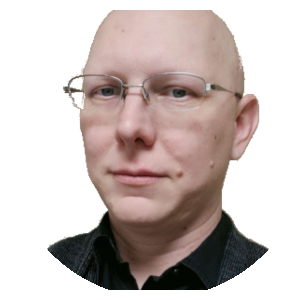
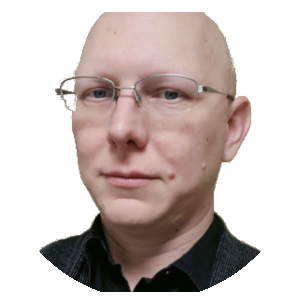
Stacking Profile Image

diff --git a/src/App.jsx b/src/App.jsx
@@ -18,7 +18,11 @@ function App() {
 function Home() {
     return (
         <div>
-            This is my main page.
+            <div className='image-holder'>
+                <img src='./Perlin-Background-300-300.png' className='profile-image' />
+                <img src='./Portrait-300-300.png' className='profile-image' />
+                <img src='./Gold-Ring-300-300.png' className='profile-image' />
+            </div>
         </div>
     );
 }

diff --git a/src/App.css b/src/App.css
@@ -1,0 +1,15 @@
+.image-holder {
+    position: absolute;
+    width: 300px;
+    height: 300px;
+    top: 50%;
+    left: 50%;
+    transform: translate(-50%,-50%);
+
+}
+
+.profile-image {
+    position: absolute;
+    top: 0;
+    left: 0;
+}
